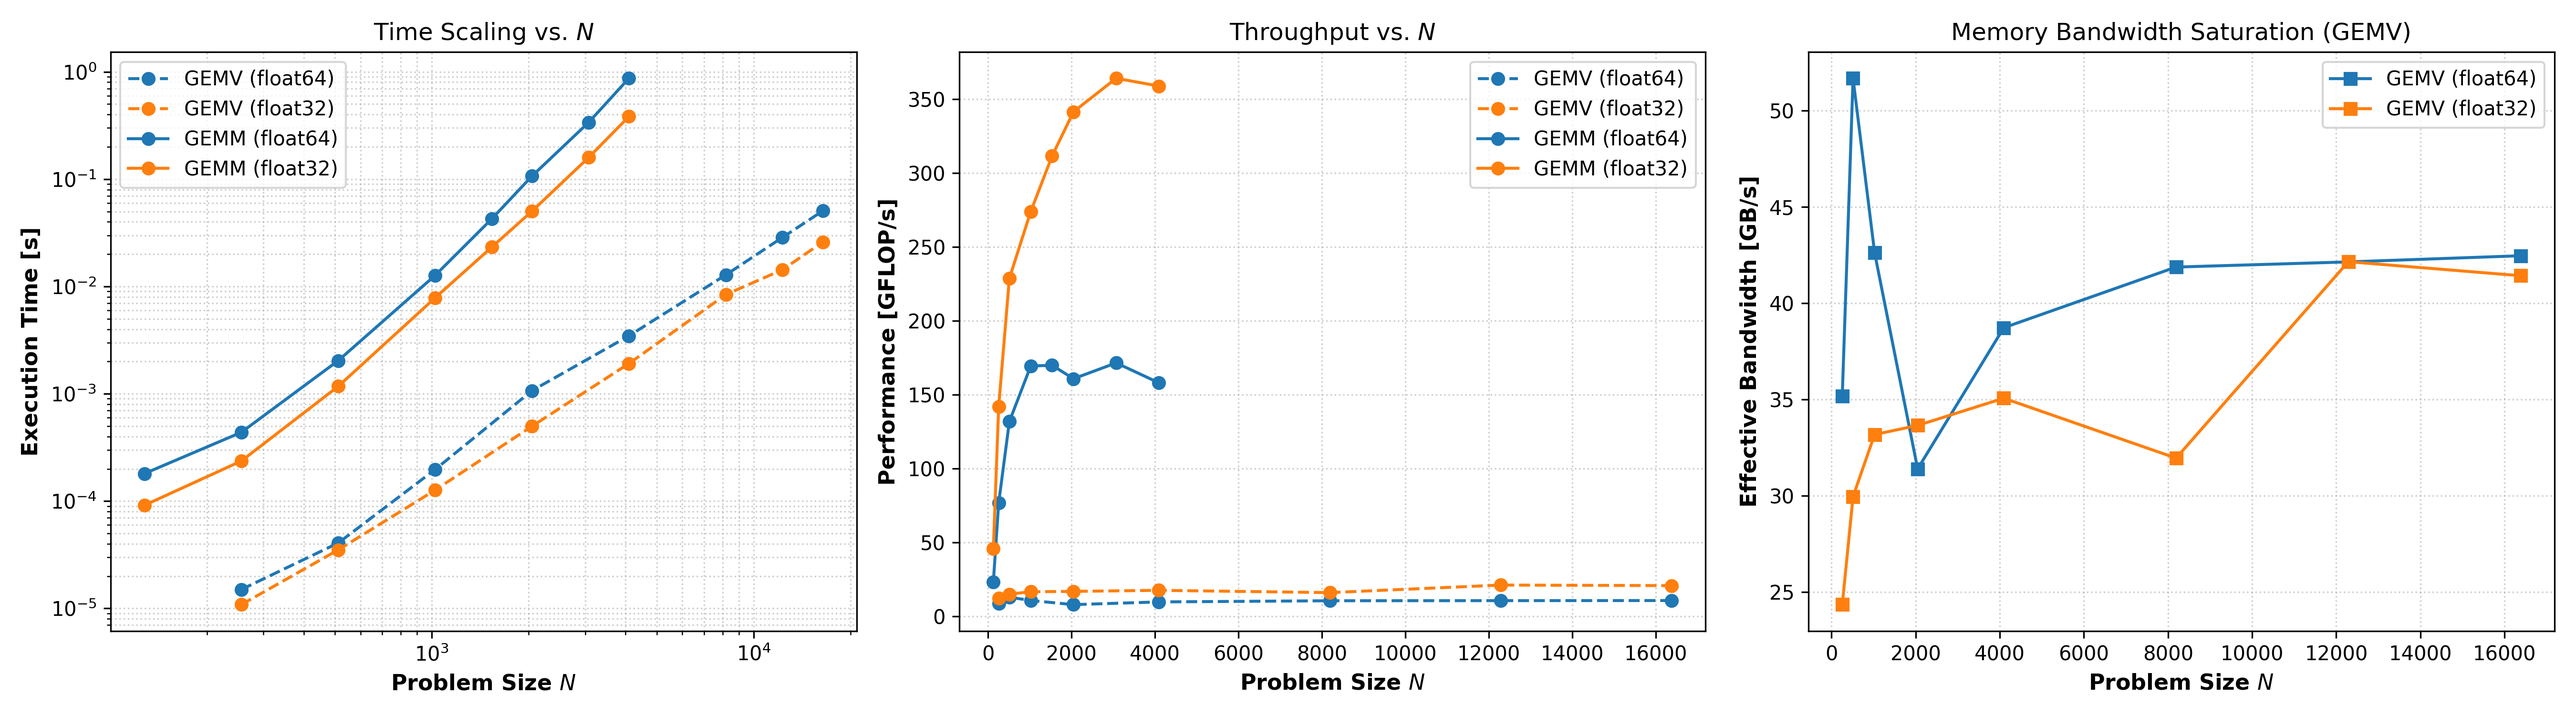
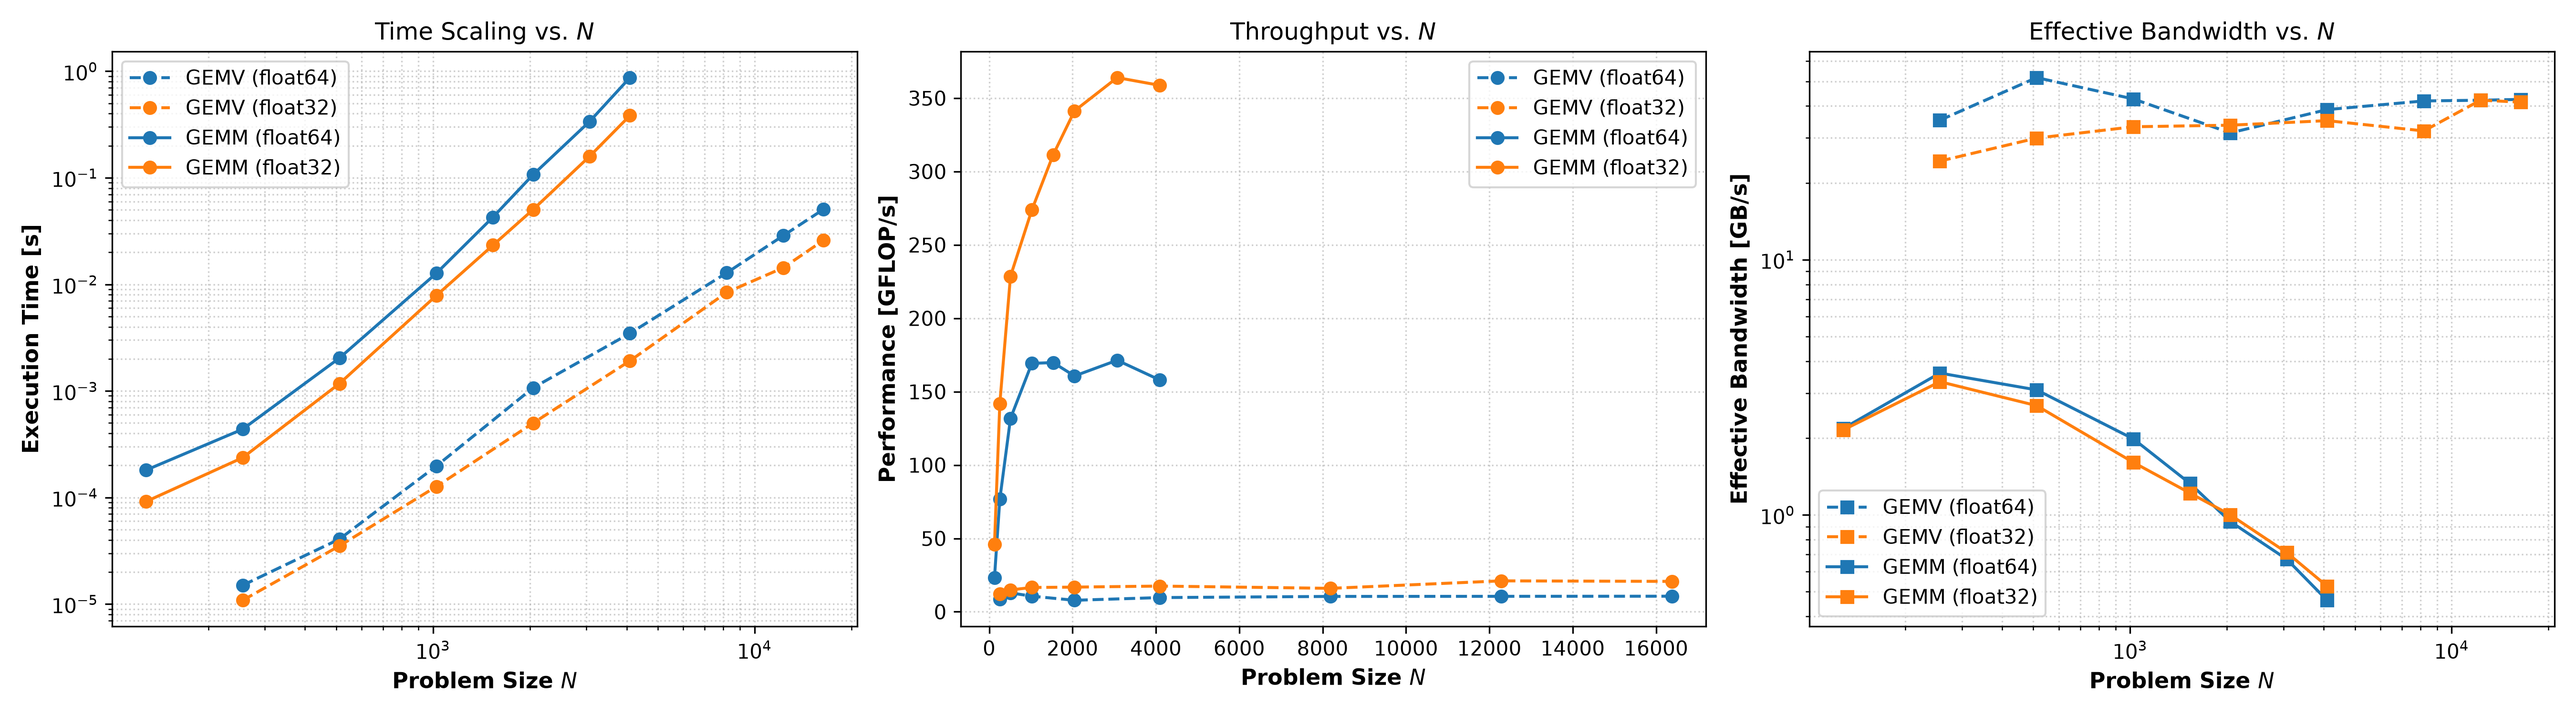
Fix README run instructions and show GEMM bandwidth in scaling plot

diff --git a/4_Numerical_precision_and_stability/plot_results.py b/4_Numerical_precision_and_stability/plot_results.py
@@ -22,6 +22,7 @@ def load_data(filepath="benchmark_results.csv"):
             )
     return rows
 
+
 def plot_roofline(
     data,
     p_peak_fp32=364.0,
@@ -29,7 +30,6 @@ def plot_roofline(
     b_mem=42.5,
     filename="roofline_model.png",
 ):
-   
     fig, ax = plt.subplots(figsize=(9, 6), dpi=300)
 
     # Range of Arithmetic Intensity
@@ -156,23 +156,25 @@ def plot_scaling_metrics(data, filename="performance_scaling.png"):
 
     # 3. Effective Bandwidth (GB/s) vs N
     ax = axes[2]
-    for dt, color in [("float64", "tab:blue"), ("float32", "tab:orange")]:
-        subset = [
-            d for d in data if d["operation"] == "gemv" and d["dtype"] == dt
-        ]
-        ax.plot(
-            [d["n"] for d in subset],
-            [d["bandwidth_gb_s"] for d in subset],
-            marker="s",
-            color=color,
-            label=f"GEMV ({dt})",
-        )
+    for op, ls in [("gemv", "--"), ("gemm", "-")]:
+        for dt, color in [("float64", "tab:blue"), ("float32", "tab:orange")]:
+            subset = [
+                d for d in data if d["operation"] == op and d["dtype"] == dt
+            ]
+            ax.loglog(
+                [d["n"] for d in subset],
+                [d["bandwidth_gb_s"] for d in subset],
+                marker="s",
+                linestyle=ls,
+                color=color,
+                label=f"{op.upper()} ({dt})",
+            )
     ax.set_xlabel("Problem Size $N$", fontsize=11, fontweight="bold")
     ax.set_ylabel(
         "Effective Bandwidth [GB/s]", fontsize=11, fontweight="bold"
     )
-    ax.set_title("Memory Bandwidth Saturation (GEMV)", fontsize=12)
-    ax.grid(True, linestyle=":", alpha=0.6)
+    ax.set_title("Effective Bandwidth vs. $N$", fontsize=12)
+    ax.grid(True, which="both", linestyle=":", alpha=0.6)
     ax.legend()
 
     plt.tight_layout()

diff --git a/4_Numerical_precision_and_stability/README.md b/4_Numerical_precision_and_stability/README.md
@@ -7,14 +7,19 @@ Implementation, benchmarking suite, and Roofline model analysis for dense Matrix
 - `roofline_model.png` & `performance_scaling.png`: Output performance figures.
 
 ## How to Run and Reproduce
+Run these from inside this folder.
+
 1. Install dependencies:
    ```bash
    pip install numpy matplotlib
+   ```
 
-2. Run Benchmarks
+2. Run Benchmarks:
    ```bash
-   python benchmarks.py
+   python benchmark.py
+   ```
 
-4. Generate Plots
+3. Generate Plots:
    ```bash
    python plot_results.py
+   ```
